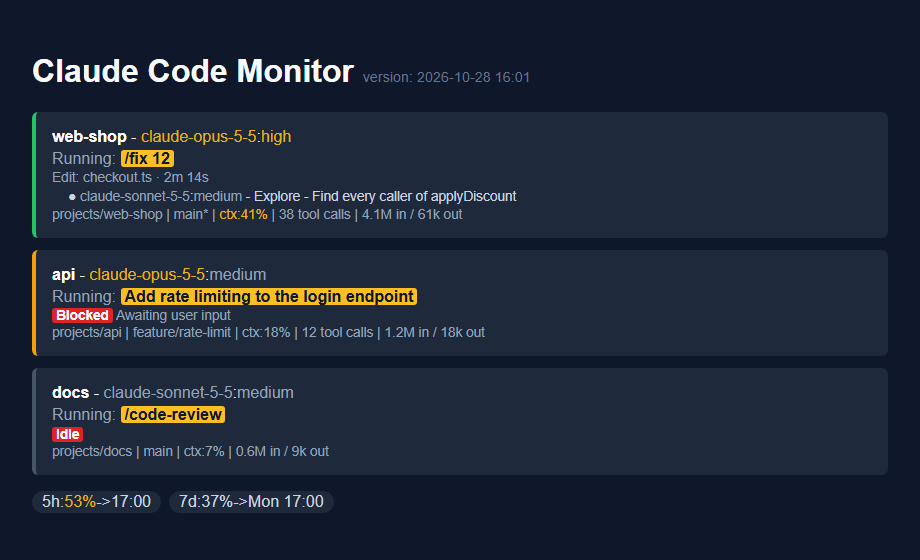
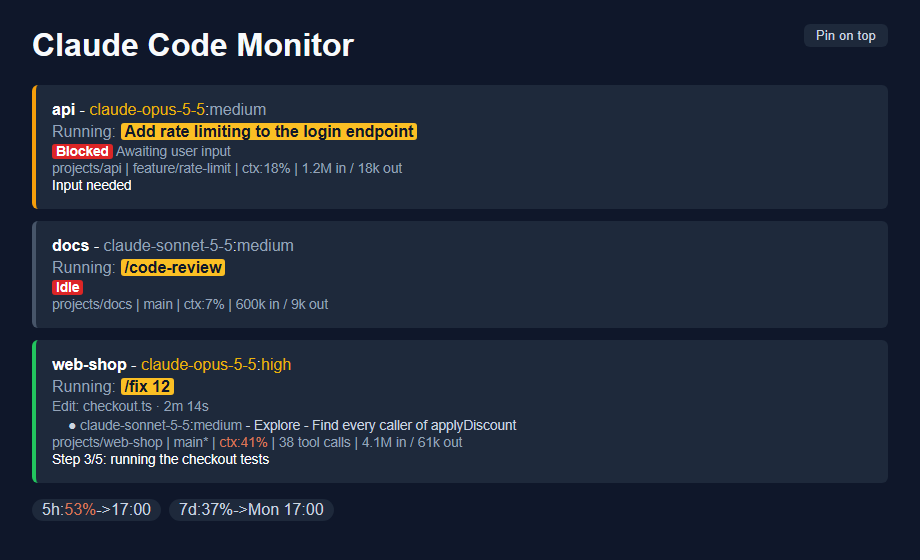
Show progress lines and the Pin on top button in the README screenshot.
Claude-Session: https://claude.ai/code/session_01TcSMUV9QdZ5nuqhUtV5GP5

Changed region(s): [[0.0304, 0.0607, 0.5783, 0.85], [0.0304, 0.8804, 0.3652, 0.9411], [0.8826, 0.0607, 0.9435, 0.0911]]

diff --git a/README.md b/README.md
@@ -3,7 +3,7 @@
 A small window that shows every Claude Code session you are using, one card per session. It is one Python file, `ccm.py`, with no
 packages to install, shipped as a Claude Code plugin.
 
-![Claude Code Monitor with three sessions: one running, one blocked, one idle](docs/screenshot.png)
+![Claude Code Monitor with three sessions: one running, one blocked, one idle, with progress lines and the Pin on top button](docs/screenshot.png)
 
 ## Install
 1. Install Python 3.10 or newer (see [Python](#python) below).
